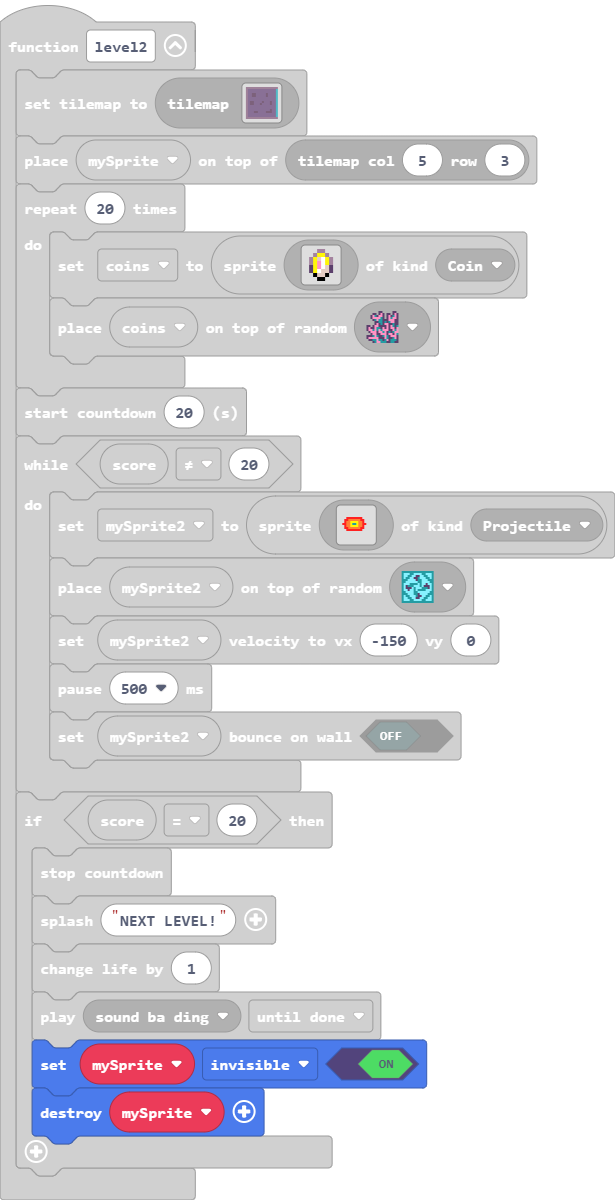
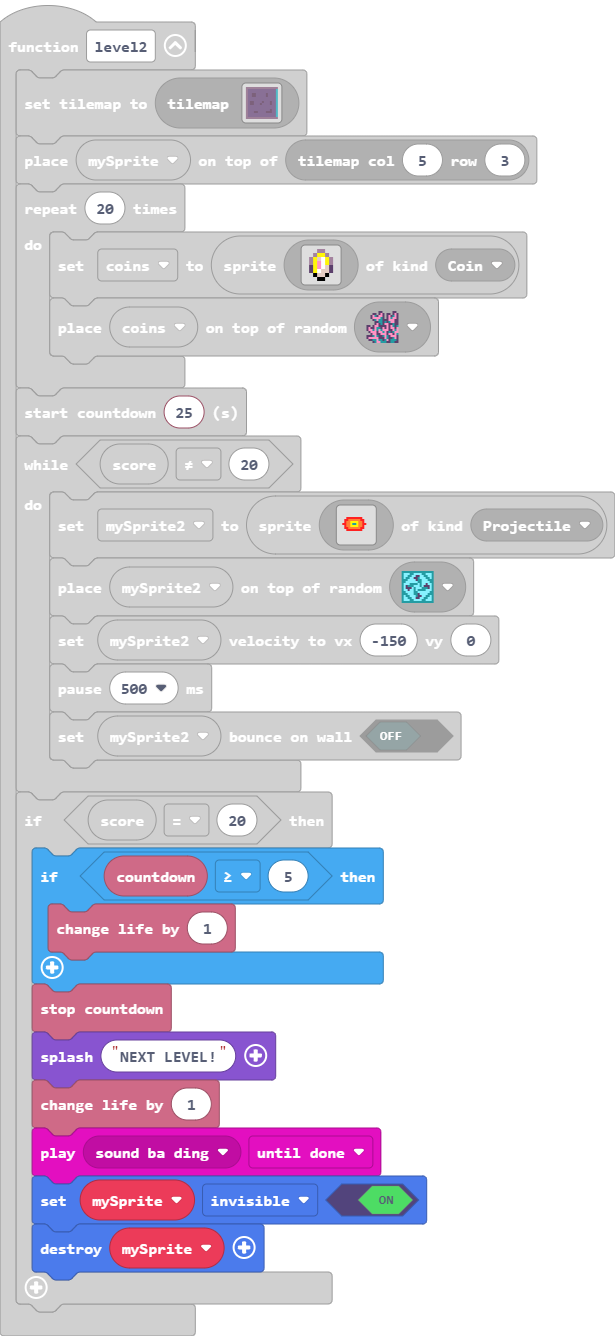
Update main.blocks, main.ts

diff --git a/main.ts b/main.ts
@@ -175,7 +175,7 @@ function level2 () {
             `, SpriteKind.Coin)
         tiles.placeOnRandomTile(coins, sprites.builtin.coral1)
     }
-    info.startCountdown(20)
+    info.startCountdown(25)
     while (info.score() != 20) {
         mySprite2 = sprites.create(img`
             . . . . . . . . . . . . . . . . 
@@ -201,6 +201,9 @@ function level2 () {
         mySprite2.setBounceOnWall(false)
     }
     if (info.score() == 20) {
+        if (info.countdown() >= 5) {
+            info.changeLifeBy(1)
+        }
         info.stopCountdown()
         game.splash("NEXT LEVEL!")
         info.changeLifeBy(1)
